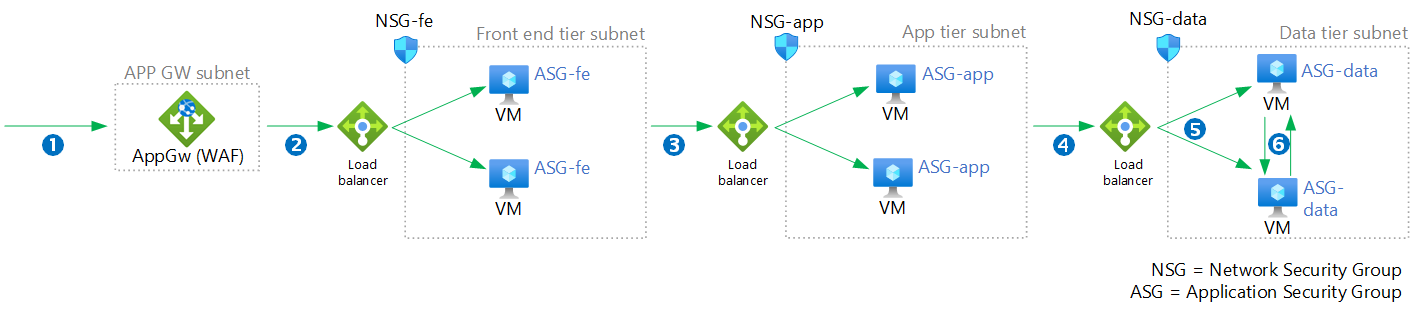
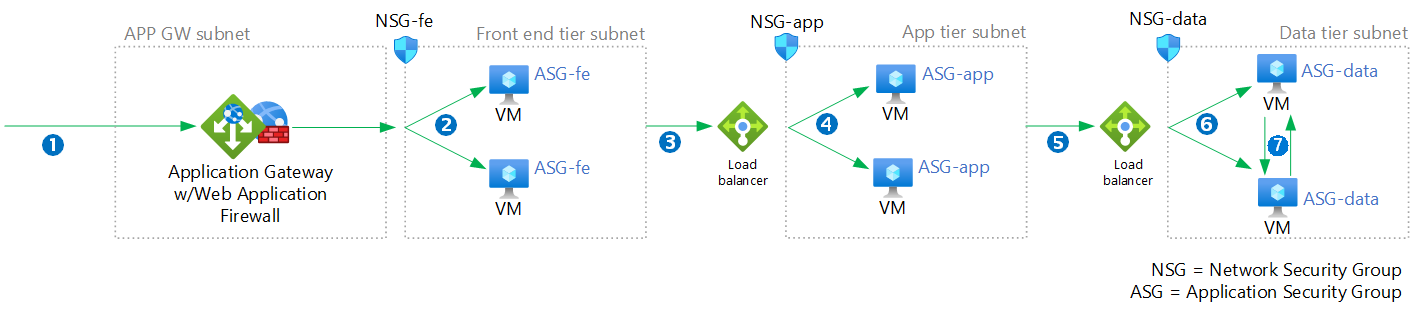
Latest changes to spoke traffic pattern

diff --git a/zero-trust/azure-infrastructure-iaas.md b/zero-trust/azure-infrastructure-iaas.md
@@ -237,15 +237,16 @@ Define traffic patterns with the least amount of permissions and only following 
 This results in the following network security group rules:
 
 1. Allowing internet traffic into the APP GW subnet (HTTPS 443).
-2. Allowing traffic from the APP GW subnet to the load balancer for the front end tier virtual machines (HTTPS 433).
+2. Allowing traffic from the APP GW subnet to the front end tier virtual machines (HTTPS 433).
 3. Allowing traffic from the front end tier virtual machines to the app tier load balancer (HTTPS 443).
-4. Allowing traffic from the app tier virtual machines to the data tier load balancer (SQL 1433).
-5. Allowing traffic from the data tier load balancer to the data tier virtual machines (SQL 1433).
-6. Allowing traffic between data tier virtual machines (SQL 1433)
+4. Allowing traffic from the app tier load balancer to the app tier virtual machines (HTTPS 443).
+5. Allowing traffic from the app tier virtual machines to the data tier load balancer (SQL 1433).
+6. Allowing traffic from the data tier load balancer to the data tier virtual machines (SQL 1433).
+7. Allowing traffic between data tier virtual machines (SQL 1433)
 
 Configure the SQL pattern first and then repeat this process with the remaining tiers. Here are the configurations for the rules that confine network traffic for a single application tier.
 
-#### Rule 4 - Allow traffic from app tier virtual machines to the data tier load balancer (SQL 1433)
+#### Rule 5 - Allow traffic from app tier virtual machines to the data tier load balancer (SQL 1433)
 
 In the network security group for the app tier subnet, navigate to **Inbound Security Rules**, and select **Add**. Populate the list with the following:
 
@@ -276,7 +277,7 @@ Thus, the rule will only be applied when this application security group is used
 
 Finally, in the same network security group, navigate to **Outbound Security Rules** and select **Add**. Populate the list similar to the above, changing **Inbound** to **Outbound**.
 
-#### Rule 5 - Allow traffic from data tier load balancer to data tier virtual machines (SQL 1433)
+#### Rule 6 - Allow traffic from data tier load balancer to data tier virtual machines (SQL 1433)
 
 In the network security group for the data tier subnet, navigate to **Inbound Security Rules** and select **Add**. Populate the list with the following:
 
@@ -295,7 +296,7 @@ In the network security group for the data tier subnet, navigate to **Inbound Se
 
 In the same network security group, navigate to **Outbound Security Rules** and select **Add**. Populate the list as done above, changing **Inbound** to **Outbound**.
 
-#### Rule 6 — Allow traffic between data tier virtual machines (SQL 1433)
+#### Rule 7 — Allow traffic between data tier virtual machines (SQL 1433)
 
 In the network security group for the data tier subnet, navigate to **Inbound Security Rules** and select **Add**. Populate the list with the following:
 
